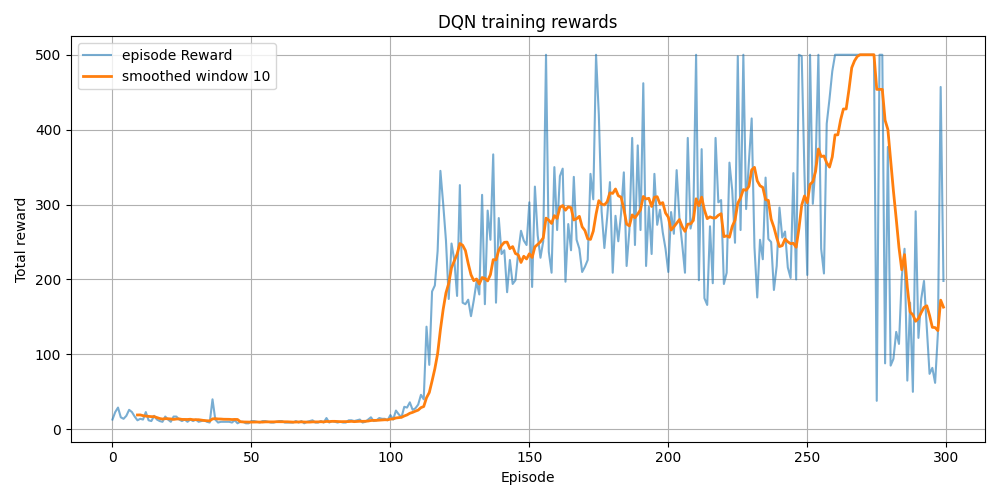
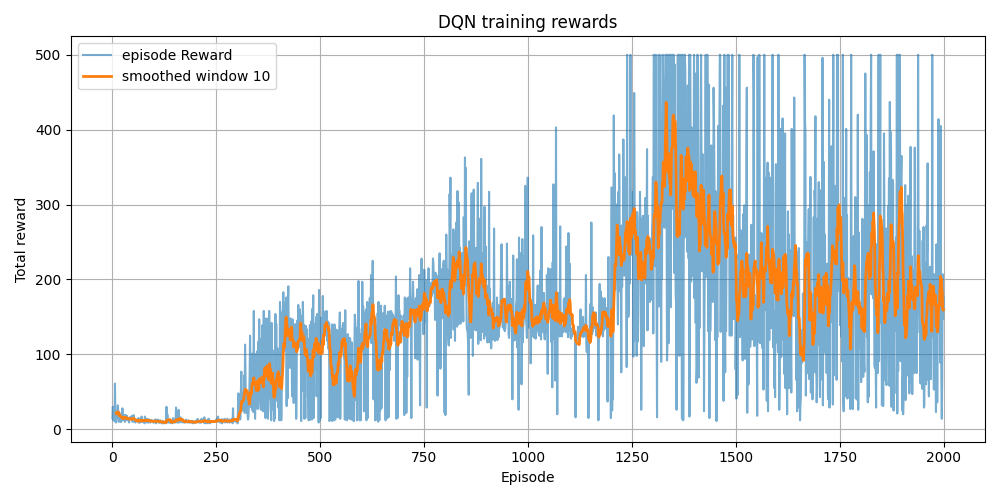
graphs with standardized params of 2000 episodes

diff --git a/prioritized_ddqn.py b/prioritized_ddqn.py
@@ -4,6 +4,7 @@ import matplotlib.pyplot as plt
 import numpy as np
 import torch
 import os
+import random
 
 import gymnasium as gym
 import gym_anytrading
@@ -167,12 +168,16 @@ class PrioritizedDQN(DQN):
 
 if __name__ == "__main__":
     # Parameters for DQN
-    MEMORY_SIZE = 10000
+    MEMORY_SIZE = 20000
     BATCH_SIZE = 64
-    TARGET_UPDATE_FREQ = 10
-    EPSILON_DECAY_STEPS = 700
-    LEARNING_RATE = 1e-4
-    NUM_EPISODES = 300  # Small number for testing
+    TARGET_UPDATE_FREQ = 100
+    EPSILON_DECAY_STEPS = 1500
+    LEARNING_RATE = 5e-4
+    NUM_EPISODES = 2000  # Small number for testing (increased it to compare with PER - will)
+    SEED = 42
+    np.random.seed(SEED)
+    random.seed(SEED)
+    torch.manual_seed(SEED)
 
     env = gym.make("CartPole-v1")
 
@@ -183,7 +188,7 @@ if __name__ == "__main__":
         target_update_freq=TARGET_UPDATE_FREQ,
         epsilon_decay=EPSILON_DECAY_STEPS,
         alpha=LEARNING_RATE,
-        omega= 0.6, # priority importance parameter
+        omega= 0.5, # priority importance parameter
         beta= 0.4,  # then gets increased more later
         td_epsilon= 1e-6
     )

diff --git a/dqn.py b/dqn.py
@@ -4,11 +4,11 @@ import matplotlib.pyplot as plt
 import numpy as np
 import torch
 import os
+import random
 
 import gymnasium as gym
 import gym_anytrading
 from gym_anytrading.datasets import FOREX_EURUSD_1H_ASK, STOCKS_GOOGL
-
 
 from util.NeuralNet import NeuralNet
 from util.ReplayBuffer import ReplayBuffer
@@ -203,12 +203,16 @@ class DQN:
 
 if __name__ == "__main__":
     # Parameters for DQN
-    MEMORY_SIZE = 10000
+    MEMORY_SIZE = 20000
     BATCH_SIZE = 64
-    TARGET_UPDATE_FREQ = 10
-    EPSILON_DECAY_STEPS = 700
-    LEARNING_RATE = 1e-4
-    NUM_EPISODES = 300  # Small number for testing
+    TARGET_UPDATE_FREQ = 100
+    EPSILON_DECAY_STEPS = 1500
+    LEARNING_RATE = 5e-4
+    NUM_EPISODES = 2000  # Small number for testing (increased it to compare with PER - will)
+    SEED = 42
+    np.random.seed(SEED)
+    random.seed(SEED)
+    torch.manual_seed(SEED)
 
     env = gym.make("CartPole-v1")
 
